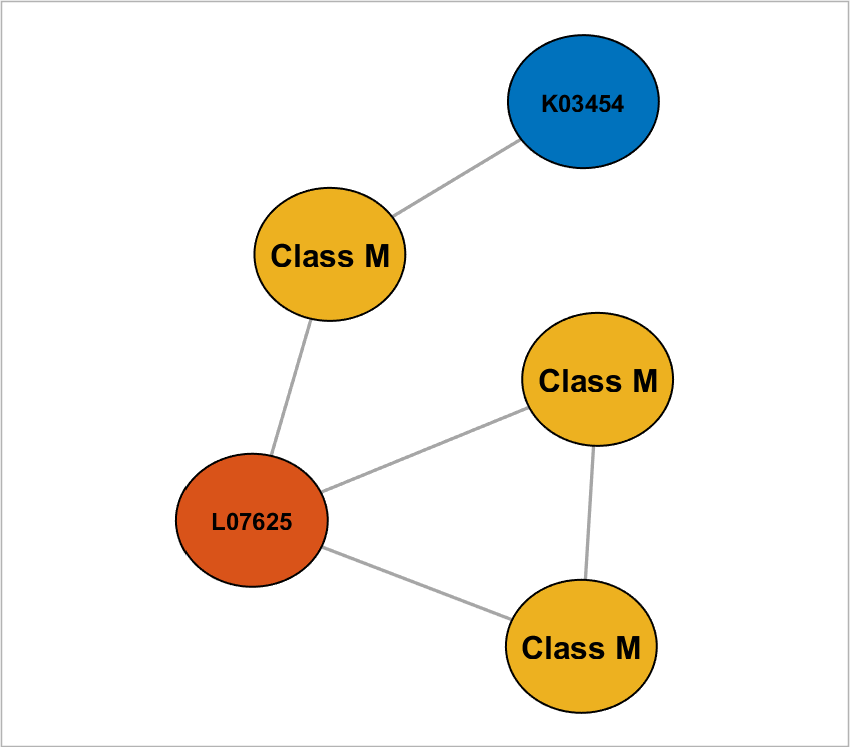
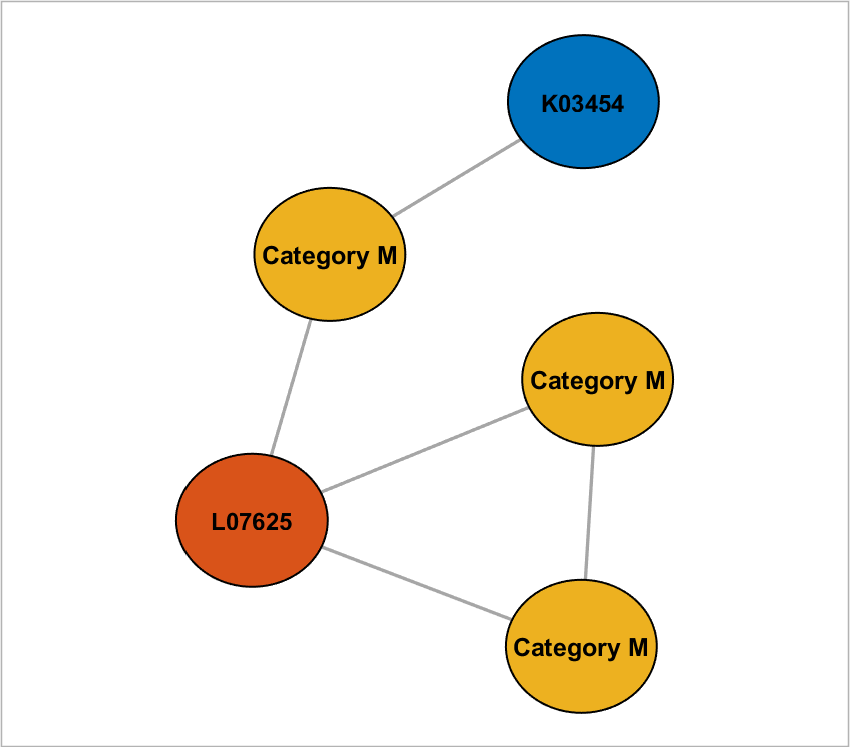
Update documentation

Changed region(s): [[0.6118, 0.8313, 0.7647, 0.8929], [0.3059, 0.3079, 0.4588, 0.3695], [0.6118, 0.4926, 0.7953, 0.5234]]

diff --git a/docs/setNodeLabels.md b/docs/setNodeLabels.md
@@ -38,11 +38,10 @@ which produces:
 #### Updating labels using node classes
 
 ```Matlab
-cvalues = {'M', 'L', 'K', 'M', 'M'}';
-net = addNodeClass(net, cvalues);
-net = setNodeLabels(net, {'Class M'}, 'M');
-net = setNodeFontSize(net, 12, 'M');
-plot(net);
+categories = {'M', 'L', 'K', 'M', 'M'}';
+net = addNodeClass(net, categories);
+net = setNodeLabels(net, {'Category M'}, 'M');
+net = setNodeFontSize(net, 9.5, 'M');
 ```
 which produces:
 
